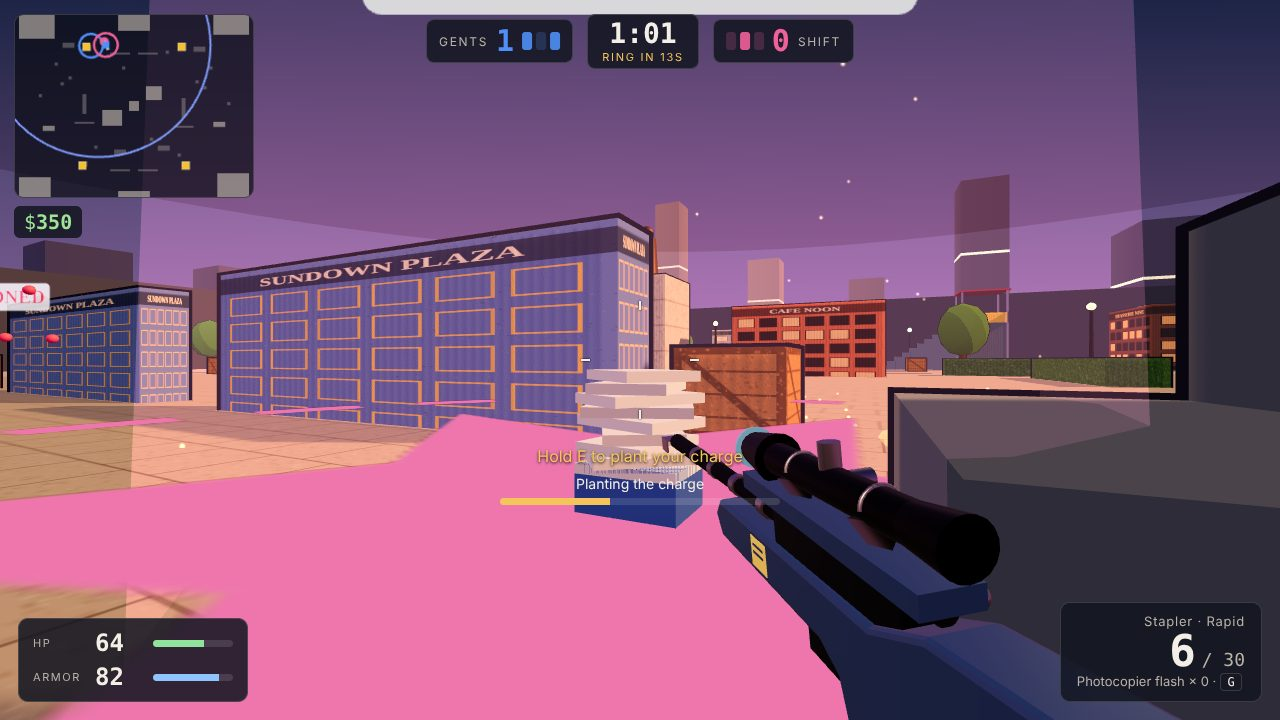
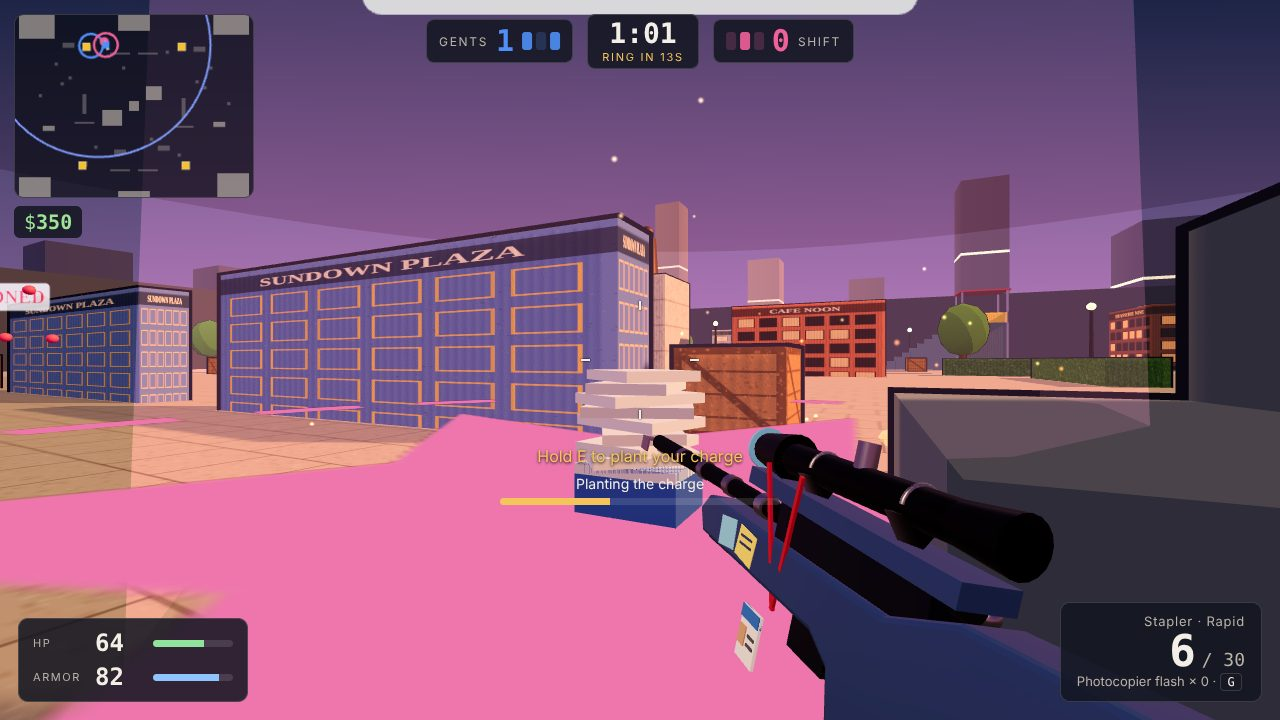
Career kit on every rifle and the Office Lady's new look
Cash roll and gold barrel for the Boss, a rose and heart sight for the Playboy,
knife and carving fork for the Chef, pointer cane and chalk tray for the
Teacher, sticky notes and a staff ID lanyard for the Office Lady; the Office
Lady now wears a white blouse, black pencil skirt and long permed hair. The
first-person rifle is canted to show its flank.

Claude-Session: https://claude.ai/code/session_013JWUDFtXSFyga1ze7fr88q

Changed region(s): [[0.5, 0.5806, 0.8438, 1.0], [0.8438, 0.9778, 0.9375, 1.0], [0.8125, 0.8861, 0.8438, 0.9167]]

diff --git a/game/src/render/guns.js b/game/src/render/guns.js
@@ -1,11 +1,12 @@
 // Six sniper rifles. Each is a real bolt-action build (a shaped stock with cheek rest, pistol grip
 // and fore-end, receiver and bolt, fluted barrel, muzzle brake, scope on rings with turrets,
-// magazine, trigger guard and a folded bipod) finished and fitted for its owner's career: the
-// Boss's black lacquer and gold with a fountain-pen nib for a muzzle; the Playboy's pearl and
-// chrome with a heart in the stock; the Chef's walnut with a pepper-mill crown; the Teacher's oak
-// with a chalkboard inlay and a pointer fore-end; the Office Lady's stapler-blue stock with binder
-// clips for scope rings; the Nurse's white medical polymer with a graduated syringe barrel and a
-// needle. Each points down -z with the grip at the origin; metal and wood keep physical shading.
+// magazine, trigger guard and a folded bipod) kitted out for its owner's career: the Boss's black
+// lacquer, gold-plated barrel, fountain-pen nib and a roll of cash; the Playboy's pearl and chrome
+// with a heart front sight and a rose tied along the barrel; the Chef's walnut with a pepper-mill
+// crown and a knife and carving fork lashed on; the Teacher's oak with a pointer cane past the
+// muzzle and a chalk tray; the Office Lady's stapler-blue stock with binder clips, sticky notes and
+// her staff ID on a lanyard; the Nurse's white polymer with a graduated syringe barrel and needle.
+// Each points down -z with the grip at the origin; metal and wood keep physical shading.
 import * as THREE from 'three';
 
 const mats = new Map();
@@ -107,75 +108,117 @@ function flank(g, geo, material, z, y = -0.004) {
   return add(g, geo, material, -0.034, y, z, 0, -Math.PI / 2);
 }
 
+/** Twine lashing something to the rifle: a short dark band across the flank. */
+function lash(g, z, y = 0.0, h = 0.07) {
+  add(g, new THREE.BoxGeometry(0.008, h, 0.008), mat('#8a6a3c', 0, 0.9), -0.046, y, z);
+}
+
 const BUILD = {
   boss() {
-    const gold = mat('#d9b44a', 1, 0.22);
-    const g = rifle({ stock: mat('#121318', 0.3, 0.18), metal: mat('#16171c', 0.9, 0.25), accent: gold, scope: mat('#121318', 0.6, 0.25), rings: gold, noMuzzle: true });
-    // The muzzle is a fountain-pen nib, slit and breather hole, and a pen clip runs the barrel.
+    const gold = mat('#d9b44a', 1, 0.2);
+    const g = rifle({ stock: mat('#121318', 0.3, 0.18), metal: mat('#16171c', 0.9, 0.25), accent: gold, scope: mat('#121318', 0.6, 0.25), rings: gold, barrel: gold, noMuzzle: true });
+    // The muzzle is a fountain-pen nib, slit and breather hole, on a gold-plated barrel.
     const nib = add(g, new THREE.ConeGeometry(0.024, 0.12, 4), gold, 0, 0.045, -0.84, -Math.PI / 2, 0, Math.PI / 4);
     nib.scale.set(1, 1, 0.45);
     add(g, new THREE.BoxGeometry(0.003, 0.002, 0.07), mat('#111', 0.5, 0.5), 0, 0.054, -0.85);
-    add(g, new THREE.BoxGeometry(0.008, 0.012, 0.3), gold, 0, 0.068, -0.5);
     add(g, new THREE.TorusGeometry(0.03, 0.006, 8, 20), gold, 0, 0.0, 0.43);
-    // An engraved gold nameplate and inlay lines down the fore-end.
-    flank(g, new THREE.BoxGeometry(0.12, 0.026, 0.003), gold, -0.2);
-    for (const z of [-0.31, -0.09]) flank(g, new THREE.BoxGeometry(0.006, 0.03, 0.003), gold, z);
+    // A fat roll of banknotes in a paper band, lashed to the fore-end, and a gold nameplate.
+    const cash = mat('#5f9a5a', 0, 0.7);
+    for (let i = 0; i < 3; i++) add(g, new THREE.BoxGeometry(0.012, 0.045, 0.1), cash, -0.04 - i * 0.008, -0.002, -0.2 + i * 0.004);
+    add(g, new THREE.BoxGeometry(0.034, 0.05, 0.022), mat('#efe6cc', 0, 0.8), -0.048, -0.002, -0.2);
+    add(g, new THREE.BoxGeometry(0.003, 0.02, 0.01), mat('#2f5f2c', 0, 0.8), -0.066, -0.002, -0.2);
+    flank(g, new THREE.BoxGeometry(0.06, 0.02, 0.003), gold, -0.33);
     return g;
   },
   playboy() {
     const chrome = mat('#e4e8ee', 1, 0.08);
-    const g = rifle({ stock: mat('#f6efe9', 0.2, 0.25), metal: chrome, accent: mat('#e2385d', 0.4, 0.3), scope: mat('#f2a7c0', 0.5, 0.3), barrel: chrome });
-    const heart = add(g, new THREE.ExtrudeGeometry(heartShape(0.06), { depth: 0.012, bevelEnabled: true, bevelSize: 0.005, bevelThickness: 0.004, bevelSegments: 2 }), mat('#e2385d', 0.3, 0.25, { emissive: '#3a0510' }), 0.03, -0.02, 0.26, 0, Math.PI / 2);
-    heart.scale.setScalar(1.3);
-    add(g, heart.geometry, heart.material, -0.042, -0.02, 0.26, 0, -Math.PI / 2).scale.setScalar(1.3);
-    // A smaller heart and a chrome band on the fore-end flank.
-    flank(g, heart.geometry, heart.material, -0.2, -0.006).scale.setScalar(0.45);
-    flank(g, new THREE.BoxGeometry(0.012, 0.034, 0.003), mat('#e4e8ee', 1, 0.08), -0.32);
+    const red = mat('#e2385d', 0.3, 0.25, { emissive: '#3a0510' });
+    const g = rifle({ stock: mat('#f6efe9', 0.2, 0.25), metal: chrome, accent: red, scope: mat('#f2a7c0', 0.5, 0.3), barrel: chrome });
+    const heartGeo = new THREE.ExtrudeGeometry(heartShape(0.06), { depth: 0.012, bevelEnabled: true, bevelSize: 0.005, bevelThickness: 0.004, bevelSegments: 2 });
+    for (const [x, ry] of [[0.03, Math.PI / 2], [-0.042, -Math.PI / 2]]) add(g, heartGeo, red, x, -0.02, 0.26, 0, ry).scale.setScalar(1.3);
+    // A big heart stands on the muzzle as the front sight.
+    add(g, heartGeo, red, -0.006, 0.1, -0.79, 0, -Math.PI / 2).scale.setScalar(0.75);
+    // A long-stemmed red rose tied along the barrel, bloom forward, two leaves.
+    tube(g, 0.004, 0.004, 0.36, mat('#2f7a35', 0, 0.6), -0.032, 0.03, -0.45, 8);
+    const petal = mat('#c8102e', 0.1, 0.45, { emissive: '#2a0006' });
+    for (const [dx, dy, dz, r] of [[0, 0, 0, 0.026], [-0.01, 0.014, 0.006, 0.018], [-0.008, -0.012, 0.01, 0.018], [-0.016, 0.0, -0.012, 0.016]]) {
+      add(g, new THREE.SphereGeometry(r, 12, 10), petal, -0.036 + dx, 0.03 + dy, -0.645 + dz);
+    }
+    for (const [z, rx] of [[-0.42, 0.7], [-0.52, -0.7]]) {
+      const leaf = add(g, new THREE.SphereGeometry(0.02, 10, 8), mat('#3c9a44', 0, 0.6), -0.04, 0.03 + rx * 0.018, z, rx);
+      leaf.scale.set(0.3, 0.5, 1.4);
+    }
+    lash(g, -0.36, 0.035, 0.04);
     return g;
   },
   chef() {
     const brass = mat('#c9a14a', 1, 0.28);
+    const blade = mat('#e3e7ec', 0.7, 0.25);
+    const handle = mat('#1c1a1a', 0.2, 0.5);
     const g = rifle({ stock: mat('#5e3a20', 0.05, 0.45), metal: steel(), accent: brass, scope: mat('#2a2622', 0.6, 0.3), noMuzzle: true });
     // A pepper-mill crown for the muzzle brake, knob and all.
     const crown = new THREE.LatheGeometry([[0.012, 0], [0.03, 0.01], [0.032, 0.05], [0.024, 0.07], [0.014, 0.09], [0.008, 0.1]].map(([r, y]) => new THREE.Vector2(r, y)), 16);
     add(g, crown, mat('#5e3a20', 0.05, 0.4), 0, 0.045, -0.78, -Math.PI / 2);
     add(g, new THREE.SphereGeometry(0.014, 12, 10), brass, 0, 0.045, -0.885);
     add(g, new THREE.CylinderGeometry(0.02, 0.02, 0.012, 14), brass, 0, 0.152, -0.05);
-    // A butcher's-block checker on the fore-end and brass rivets.
-    for (let i = 0; i < 6; i++) flank(g, new THREE.BoxGeometry(0.018, 0.012, 0.003), mat(i % 2 ? '#f4efe6' : '#b8322c', 0.05, 0.5), -0.27 + i * 0.018, 0.0);
-    for (let i = 0; i < 6; i++) flank(g, new THREE.BoxGeometry(0.018, 0.012, 0.003), mat(i % 2 ? '#b8322c' : '#f4efe6', 0.05, 0.5), -0.27 + i * 0.018, -0.012);
-    for (const z of [-0.06, -0.33]) flank(g, new THREE.SphereGeometry(0.006, 8, 6), brass, z);
+    // A chef's knife lashed to the fore-end, edge down and point forward, its handle riveted.
+    add(g, new THREE.BoxGeometry(0.003, 0.046, 0.2), blade, -0.048, -0.006, -0.23);
+    add(g, new THREE.BoxGeometry(0.003, 0.034, 0.05), blade, -0.048, -0.014, -0.335, 0.45);
+    add(g, new THREE.BoxGeometry(0.004, 0.006, 0.2), mat('#9aa0a8', 0.9, 0.2), -0.048, 0.014, -0.23);
+    add(g, new THREE.BoxGeometry(0.01, 0.026, 0.1), handle, -0.047, -0.006, -0.08);
+    for (const z of [-0.06, -0.1]) add(g, new THREE.SphereGeometry(0.004, 6, 5), brass, -0.053, -0.006, z);
+    // A carving fork strapped along the barrel, tines forward.
+    add(g, new THREE.BoxGeometry(0.004, 0.01, 0.16), handle, -0.026, 0.06, -0.38);
+    add(g, new THREE.BoxGeometry(0.004, 0.006, 0.05), blade, -0.026, 0.06, -0.485);
+    add(g, new THREE.BoxGeometry(0.004, 0.03, 0.012), blade, -0.026, 0.06, -0.515);
+    for (const y of [-0.012, 0.0, 0.012]) add(g, new THREE.BoxGeometry(0.003, 0.004, 0.07), blade, -0.026, 0.06 + y, -0.555);
+    for (const z of [-0.2, -0.33]) lash(g, z);
+    lash(g, -0.42, 0.055, 0.03);
     return g;
   },
   teacher() {
     const g = rifle({ stock: mat('#a57a45', 0.05, 0.5), metal: blued(), accent: mat('#c4362c', 0.2, 0.4), scope: mat('#2e4a36', 0.5, 0.3) });
-    // A chalkboard inlaid in each side of the butt, and the fore-end as a pointer with a red tip.
     for (const x of [0.03, -0.03]) add(g, new THREE.BoxGeometry(0.004, 0.08, 0.16), mat('#2f5a42', 0, 0.9), x, -0.02, 0.32);
     add(g, new THREE.BoxGeometry(0.0042, 0.004, 0.11), mat('#f4f1e6', 0, 0.9), 0.031, 0.0, 0.33);
-    tube(g, 0.012, 0.016, 0.4, mat('#b58a52', 0.05, 0.5), 0, 0.01, -0.5);
-    add(g, new THREE.SphereGeometry(0.014, 12, 10), mat('#c4362c', 0.1, 0.5), 0, 0.01, -0.705);
-    // A slate on the fore-end with a chalk tick and a ruler's marks along its edge.
-    flank(g, new THREE.BoxGeometry(0.15, 0.032, 0.003), mat('#2f5a42', 0, 0.9), -0.19);
-    flank(g, new THREE.BoxGeometry(0.03, 0.004, 0.004), mat('#f4f1e6', 0, 0.9), -0.2, 0.0).rotation.x = 0.6;
-    flank(g, new THREE.BoxGeometry(0.05, 0.004, 0.004), mat('#f4f1e6', 0, 0.9), -0.17, 0.004).rotation.x = -0.5;
-    for (let i = 0; i < 8; i++) flank(g, new THREE.BoxGeometry(0.002, i % 2 ? 0.006 : 0.01, 0.003), mat('#3a2a1a', 0, 0.8), -0.33 + i * 0.03, -0.024);
+    // The classroom pointer: a long tapered cane under the barrel, well past the muzzle, red tip.
+    const cane = mat('#c49a5e', 0.05, 0.45);
+    tube(g, 0.005, 0.011, 0.9, cane, -0.012, 0.004, -0.52, 12);
+    add(g, new THREE.SphereGeometry(0.008, 10, 8), mat('#c4362c', 0.1, 0.5), -0.012, 0.004, -0.975);
+    for (const z of [-0.36, -0.62]) add(g, new THREE.TorusGeometry(0.02, 0.003, 6, 14), mat('#3a2a1a', 0.2, 0.6), -0.006, 0.024, z);
+    // A chalk tray on the fore-end flank holding white, yellow and pink sticks, dusted.
+    add(g, new THREE.BoxGeometry(0.016, 0.008, 0.15), mat('#7a5530', 0.05, 0.6), -0.042, -0.026, -0.2);
+    for (const [y, c, z] of [[-0.016, '#f6f4ec', -0.19], [-0.004, '#f2d94a', -0.21], [0.008, '#f29ab8', -0.2]]) {
+      tube(g, 0.0065, 0.0065, 0.08, mat(c, 0, 0.95), -0.044, y, z, 10);
+    }
+    add(g, new THREE.BoxGeometry(0.002, 0.03, 0.12), mat('#eae6dc', 0, 1, { transparent: true, opacity: 0.35 }), -0.035, -0.008, -0.2);
     return g;
   },
   office() {
     const blue = mat('#3e5c99', 0.45, 0.3);
     const clip = mat('#121214', 0.7, 0.3);
-    const g = rifle({ stock: blue, metal: mat('#2b3442', 0.85, 0.3), accent: mat('#c9ccd2', 1, 0.2), scope: clip, clips: true, noMuzzle: true });
+    const silver = mat('#c9ccd2', 1, 0.2);
+    const g = rifle({ stock: blue, metal: mat('#2b3442', 0.85, 0.3), accent: silver, scope: clip, clips: true, noMuzzle: true });
     // Binder clips hold the scope; the stapler's top arm rides over the receiver; a staple brake.
     for (const z of [-0.12, 0.04]) {
       add(g, new THREE.ConeGeometry(0.03, 0.045, 3), clip, 0, 0.088, z, 0, 0, Math.PI);
-      add(g, new THREE.TorusGeometry(0.02, 0.003, 6, 12, Math.PI), mat('#c9ccd2', 1, 0.2), 0, 0.12, z);
+      add(g, new THREE.TorusGeometry(0.02, 0.003, 6, 12, Math.PI), silver, 0, 0.12, z);
     }
     add(g, new THREE.BoxGeometry(0.058, 0.022, 0.38), blue, 0, 0.078, -0.06, 0.03);
-    // A yellow sticky note slapped on the fore-end, scribbled on.
-    flank(g, new THREE.BoxGeometry(0.05, 0.04, 0.002), mat('#ffe066', 0, 0.8), -0.2);
-    for (const y of [0.006, -0.004]) flank(g, new THREE.BoxGeometry(0.034, 0.003, 0.003), mat('#3b4a7a', 0, 0.8), -0.2, y);
-    add(g, new THREE.BoxGeometry(0.044, 0.004, 0.05), mat('#c9ccd2', 1, 0.2), 0, 0.045, -0.82);
-    for (const x of [-0.02, 0.02]) add(g, new THREE.BoxGeometry(0.004, 0.03, 0.05), mat('#c9ccd2', 1, 0.2), x, 0.033, -0.82);
+    add(g, new THREE.BoxGeometry(0.044, 0.004, 0.05), silver, 0, 0.045, -0.82);
+    for (const x of [-0.02, 0.02]) add(g, new THREE.BoxGeometry(0.004, 0.03, 0.05), silver, x, 0.033, -0.82);
+    // Sticky notes slapped on the fore-end, scribbled on.
+    for (const [z, c, r] of [[-0.21, '#ffe066', 0.1], [-0.27, '#7fd1ff', -0.12]]) {
+      flank(g, new THREE.BoxGeometry(0.05, 0.04, 0.002), mat(c, 0, 0.8), z).rotation.x = r;
+    }
+    for (const y of [0.006, -0.004]) flank(g, new THREE.BoxGeometry(0.034, 0.003, 0.003), mat('#3b4a7a', 0, 0.8), -0.21, y);
+    // Her staff ID on a red lanyard, hung from the front scope clip and swinging under the rifle.
+    const cord = mat('#c33333', 0.1, 0.6);
+    add(g, new THREE.BoxGeometry(0.004, 0.17, 0.006), cord, -0.036, 0.03, -0.11, 0.25, 0, 0.12);
+    add(g, new THREE.BoxGeometry(0.004, 0.17, 0.006), cord, -0.036, 0.03, -0.15, -0.25, 0, 0.12);
+    add(g, new THREE.BoxGeometry(0.004, 0.06, 0.044), mat('#f7f8fb', 0, 0.5), -0.048, -0.085, -0.13);
+    add(g, new THREE.BoxGeometry(0.005, 0.014, 0.044), mat('#3a7bd5', 0, 0.5), -0.049, -0.062, -0.13);
+    add(g, new THREE.BoxGeometry(0.005, 0.022, 0.016), mat('#c9a184', 0, 0.6), -0.049, -0.088, -0.142);
+    for (const y of [-0.084, -0.094]) add(g, new THREE.BoxGeometry(0.005, 0.003, 0.016), mat('#555a66', 0, 0.6), -0.049, y, -0.12);
     return g;
   },
   nurse() {

diff --git a/game/src/render/characters.js b/game/src/render/characters.js
@@ -1,6 +1,6 @@
 // The six careers as cartoon figures: big round heads with drawn faces, rounded bodies and limbs,
 // toon shading and ink outlines. The Teacher wears a cardigan, pencil skirt and glasses; the Office
-// Lady a shirt, suspender trousers and an ID badge; the Nurse scrubs and a cap; the Boss a dark
+// Lady a white blouse, black pencil skirt, heels, long permed hair and an ID badge; the Nurse scrubs and a cap; the Boss a dark
 // suit and gold tie; the Playboy a white suit, shades and a heart pin; the Chef whites and a toque.
 // Faces change with what happens: dizzy when stunned, heart eyes when charmed, and the finishing
 // gag's own look when they fall. Each carries its career's rifle and its team's armband.
@@ -187,7 +187,7 @@ const OUTFIT = {
   playboy: { legs: '#f1ece2', shoes: '#b07a4f', torso: '#f4f1ea', arms: '#f4f1ea' },
   chef: { legs: '#2f2f35', shoes: '#141418', torso: '#fafafa', arms: '#fafafa' },
   teacher: { legs: '#4a3b40', shoes: '#7a2f25', torso: '#3e7a55', arms: '#3e7a55' },
-  office: { legs: '#2a3a63', shoes: '#1a1a1a', torso: '#f4f6fa', arms: '#f4f6fa' },
+  office: { legs: '#d9a88f', shoes: '#1a1a1a', torso: '#f7f8fb', arms: '#f7f8fb' },
   nurse: { legs: '#f0e3d8', shoes: '#f7f7f7', torso: '#dff1f5', arms: '#dff1f5' },
 };
 
@@ -234,14 +234,23 @@ function dress(roleId, role, torso, head) {
     }
     head.add(mesh(block(0.05, 0.01, 0.01), '#1d1d1f', 0, 0.01, -0.2));
   } else if (roleId === 'office') {
-    for (const x of [-0.1, 0.1]) torso.add(mesh(block(0.035, 0.52, 0.31), '#2a3a63', x, 0, 0));
+    // A white blouse: pointed collar, a row of pearl buttons, and the ID badge on its lanyard.
+    for (const x of [-0.06, 0.06]) {
+      const tab = mesh(block(0.09, 0.05, 0.02), '#ffffff', x, 0.27, -0.13);
+      tab.rotation.z = x > 0 ? 0.5 : -0.5;
+      torso.add(tab);
+    }
+    for (const y of [0.18, 0.08, -0.02, -0.12]) torso.add(mesh(ball(0.014), '#e9e3d6', 0, y, -0.152));
     torso.add(mesh(block(0.08, 0.1, 0.02), '#3a7bd5', -0.03, -0.06, -0.16), mesh(block(0.012, 0.2, 0.012), '#c33333', -0.03, 0.08, -0.155));
-    // A sleek bob: a crown cap plus sides and back that fall to the jaw, open at the face.
-    const open = 1.0;
-    head.add(
-      mesh(new THREE.SphereGeometry(0.22, 18, 12, 0, Math.PI * 2, 0, Math.PI * 0.36), hair, 0, 0.0, 0.015),
-      mesh(new THREE.SphereGeometry(0.222, 18, 12, Math.PI * 1.5 + open, Math.PI * 2 - open * 2, 0, Math.PI * 0.64), hair, 0, 0.0, 0.015),
-    );
+    // Long permed hair: a crown cap, then loose curls that fall past the shoulders, open at the face.
+    head.add(mesh(new THREE.SphereGeometry(0.222, 18, 12, 0, Math.PI * 2, 0, Math.PI * 0.4), hair, 0, 0.0, 0.015));
+    for (let a = -2.2; a <= 2.21; a += 0.55) {
+      for (let k = 0; k < 4; k++) {
+        const r = 0.2 + k * 0.018;
+        const curl = mesh(ball(0.075 - k * 0.006), hair, Math.sin(a) * r + (k % 2 ? 0.012 : -0.012), 0.04 - k * 0.12, Math.cos(a) * r);
+        head.add(curl);
+      }
+    }
   } else if (roleId === 'nurse') {
     const hat = mesh(block(0.24, 0.08, 0.14), '#ffffff', 0, 0.2, -0.02);
     hat.add(mesh(block(0.06, 0.018, 0.012), '#e2384d', 0, 0, -0.075), mesh(block(0.018, 0.06, 0.012), '#e2384d', 0, 0, -0.075));
@@ -287,6 +296,10 @@ export function buildSoldier(role, team) {
   let skirt = null;
   if (role.id === 'teacher') {
     skirt = mesh(new THREE.CylinderGeometry(0.2, 0.17, 0.52, 18), '#3b3d48', 0, -0.25, 0);
+    hips.add(skirt);
+  } else if (role.id === 'office') {
+    // A black pencil skirt, tight to just above the knee.
+    skirt = mesh(new THREE.CylinderGeometry(0.19, 0.15, 0.42, 18), '#1d1e26', 0, -0.2, 0);
     hips.add(skirt);
   } else if (role.id === 'nurse') {
     skirt = mesh(new THREE.CylinderGeometry(0.2, 0.26, 0.44, 18), role.suit, 0, -0.2, 0);

diff --git a/game/src/sim/config.js b/game/src/sim/config.js
@@ -18,7 +18,7 @@ export const ROLES = {
   playboy: { id: 'playboy', team: 'atk', name: 'The Playboy', gun: 'Heartbreaker', finisher: 'swoon', suit: '#f4f1ea', trim: '#e2385d', skin: '#d9a07a', hair: '#6b4428' },
   chef: { id: 'chef', team: 'atk', name: 'The Chef', gun: 'Pepper Mill', finisher: 'served', suit: '#fafafa', trim: '#2f2f2f', skin: '#c98d66', hair: '#1f1a17' },
   teacher: { id: 'teacher', team: 'def', name: 'The Teacher', gun: 'Pointer', finisher: 'graded', suit: '#3e6b4f', trim: '#f2e9d0', skin: '#e9be9b', hair: '#5a3825' },
-  office: { id: 'office', team: 'def', name: 'The Office Lady', gun: 'Stapler', finisher: 'overtime', suit: '#353c4a', trim: '#e9edf2', skin: '#f0c8a8', hair: '#1c1715' },
+  office: { id: 'office', team: 'def', name: 'The Office Lady', gun: 'Stapler', finisher: 'overtime', suit: '#353c4a', trim: '#e9edf2', skin: '#f0c8a8', hair: '#7a4128' },
   nurse: { id: 'nurse', team: 'def', name: 'The Nurse', gun: 'Syringe', finisher: 'sedated', suit: '#e8f3f6', trim: '#41b6c8', skin: '#e3b08d', hair: '#8a5a33' },
 };
 

diff --git a/game/src/render/view.js b/game/src/render/view.js
@@ -46,7 +46,7 @@ export function createView(host, world) {
     vmGun = buildGun(roleId);
     // Held low on the right and angled in, so the rifle's left flank, bolt and scope read.
     vmGun.position.set(0.22, -0.25, -0.58);
-    vmGun.rotation.set(0.03, 0.17, 0.1);
+    vmGun.rotation.set(0.03, 0.24, -0.22);
     vmHolder.add(vmGun);
     vmRole = roleId;
   }
